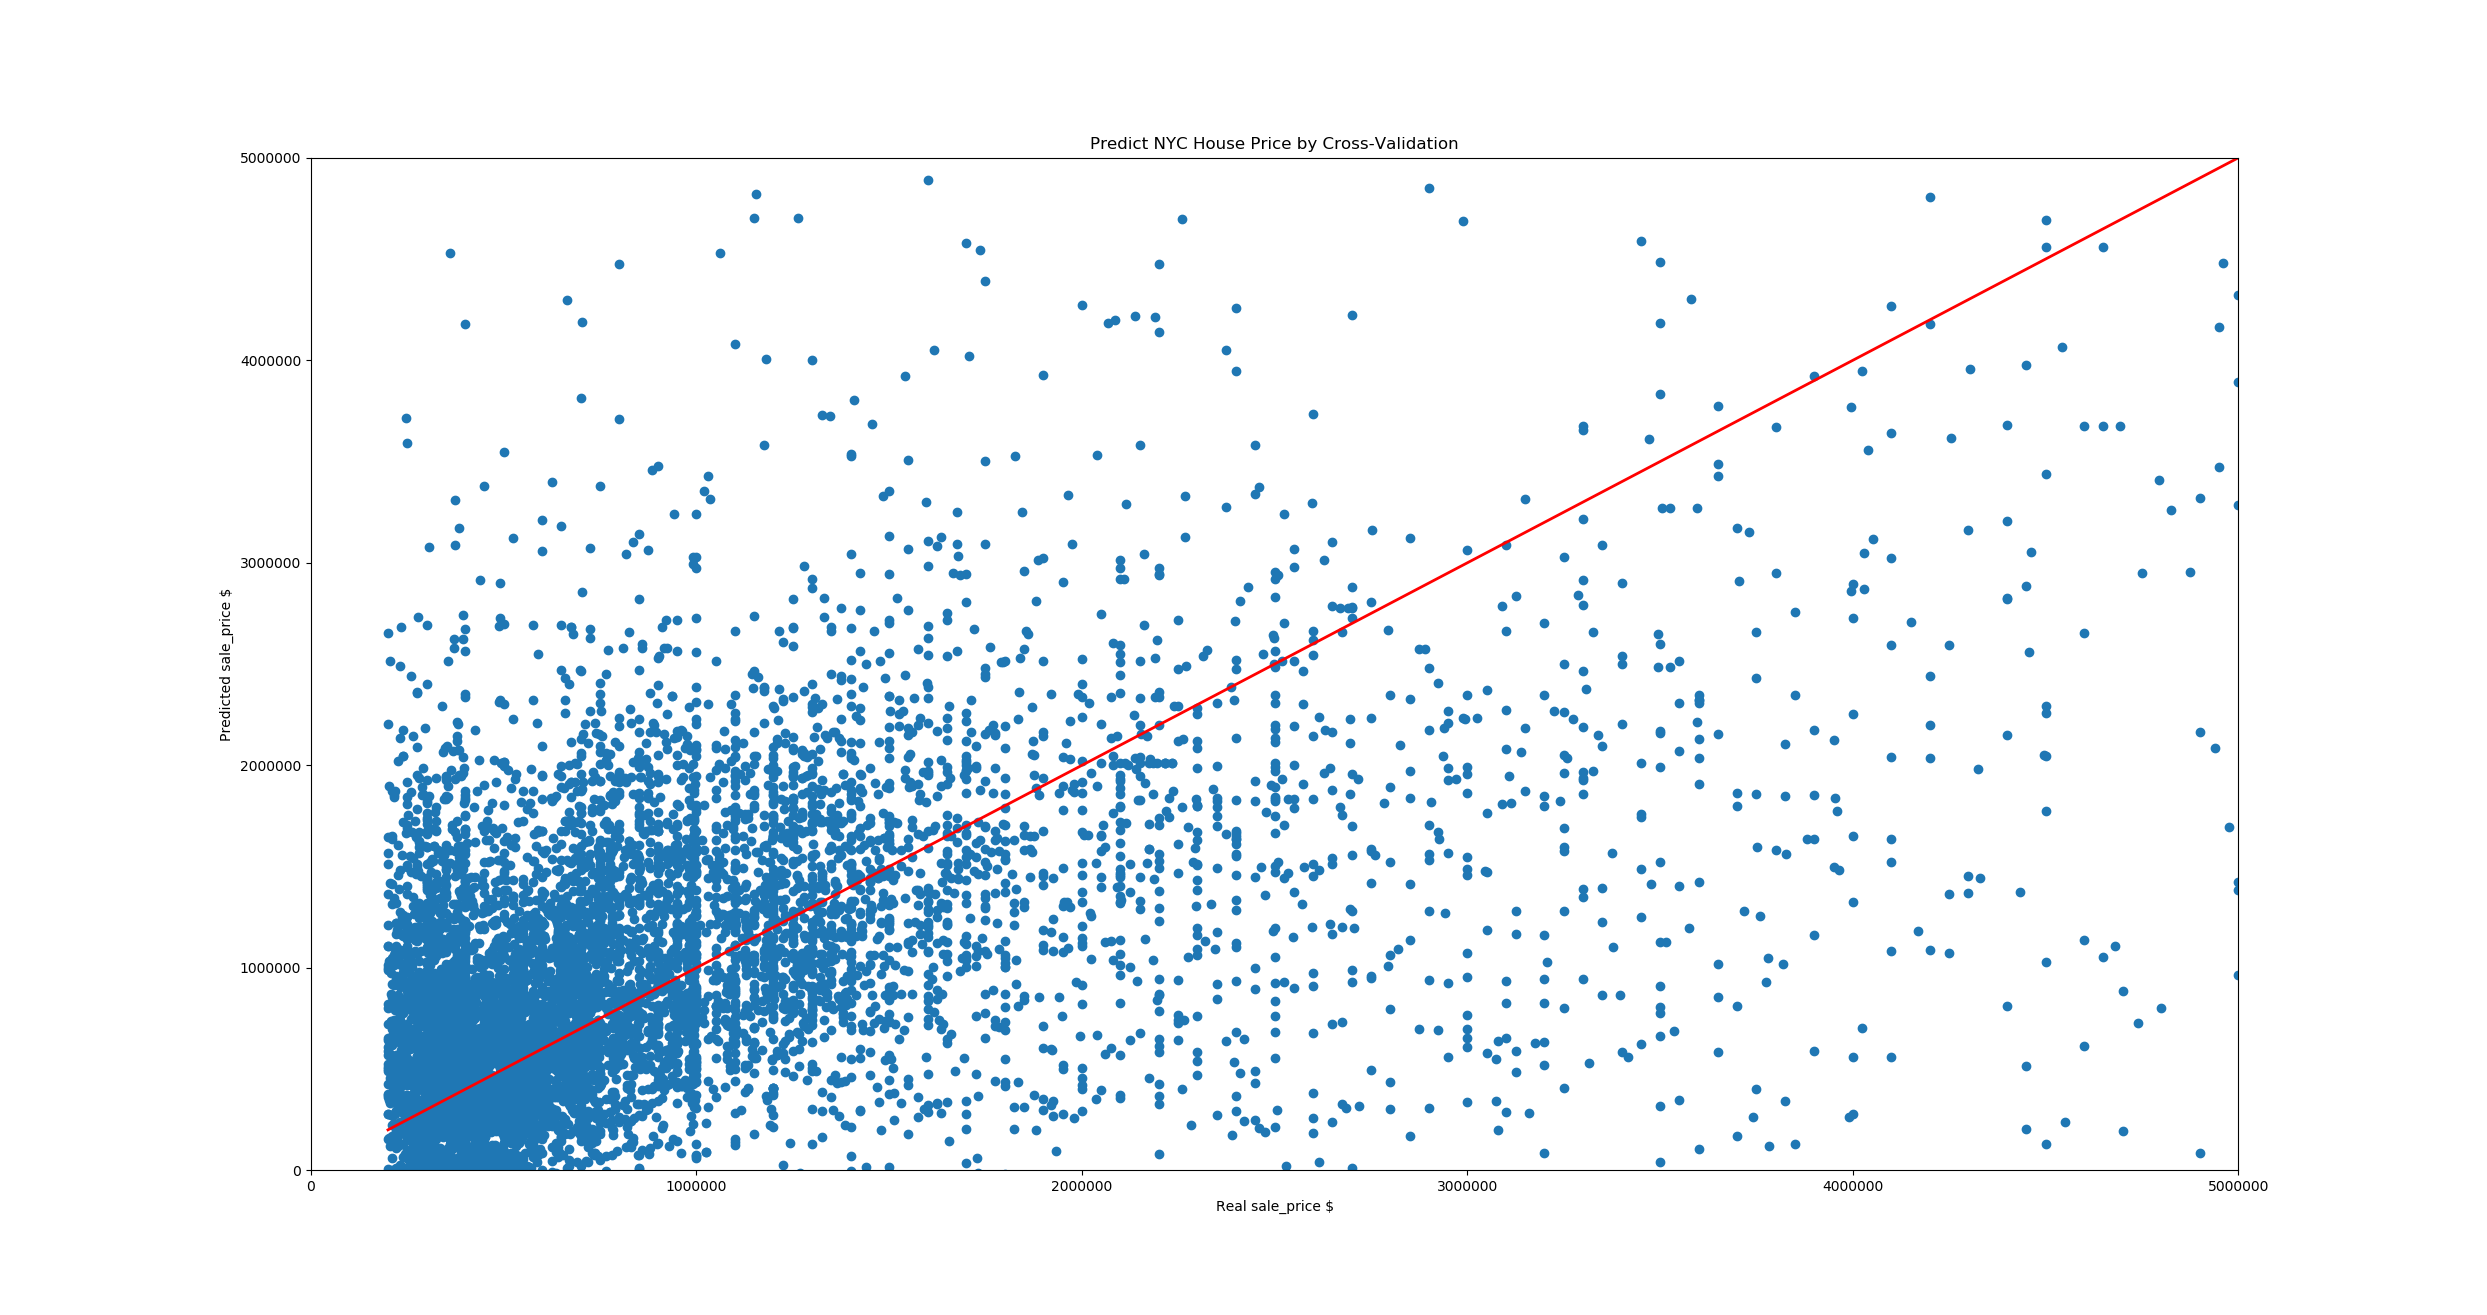
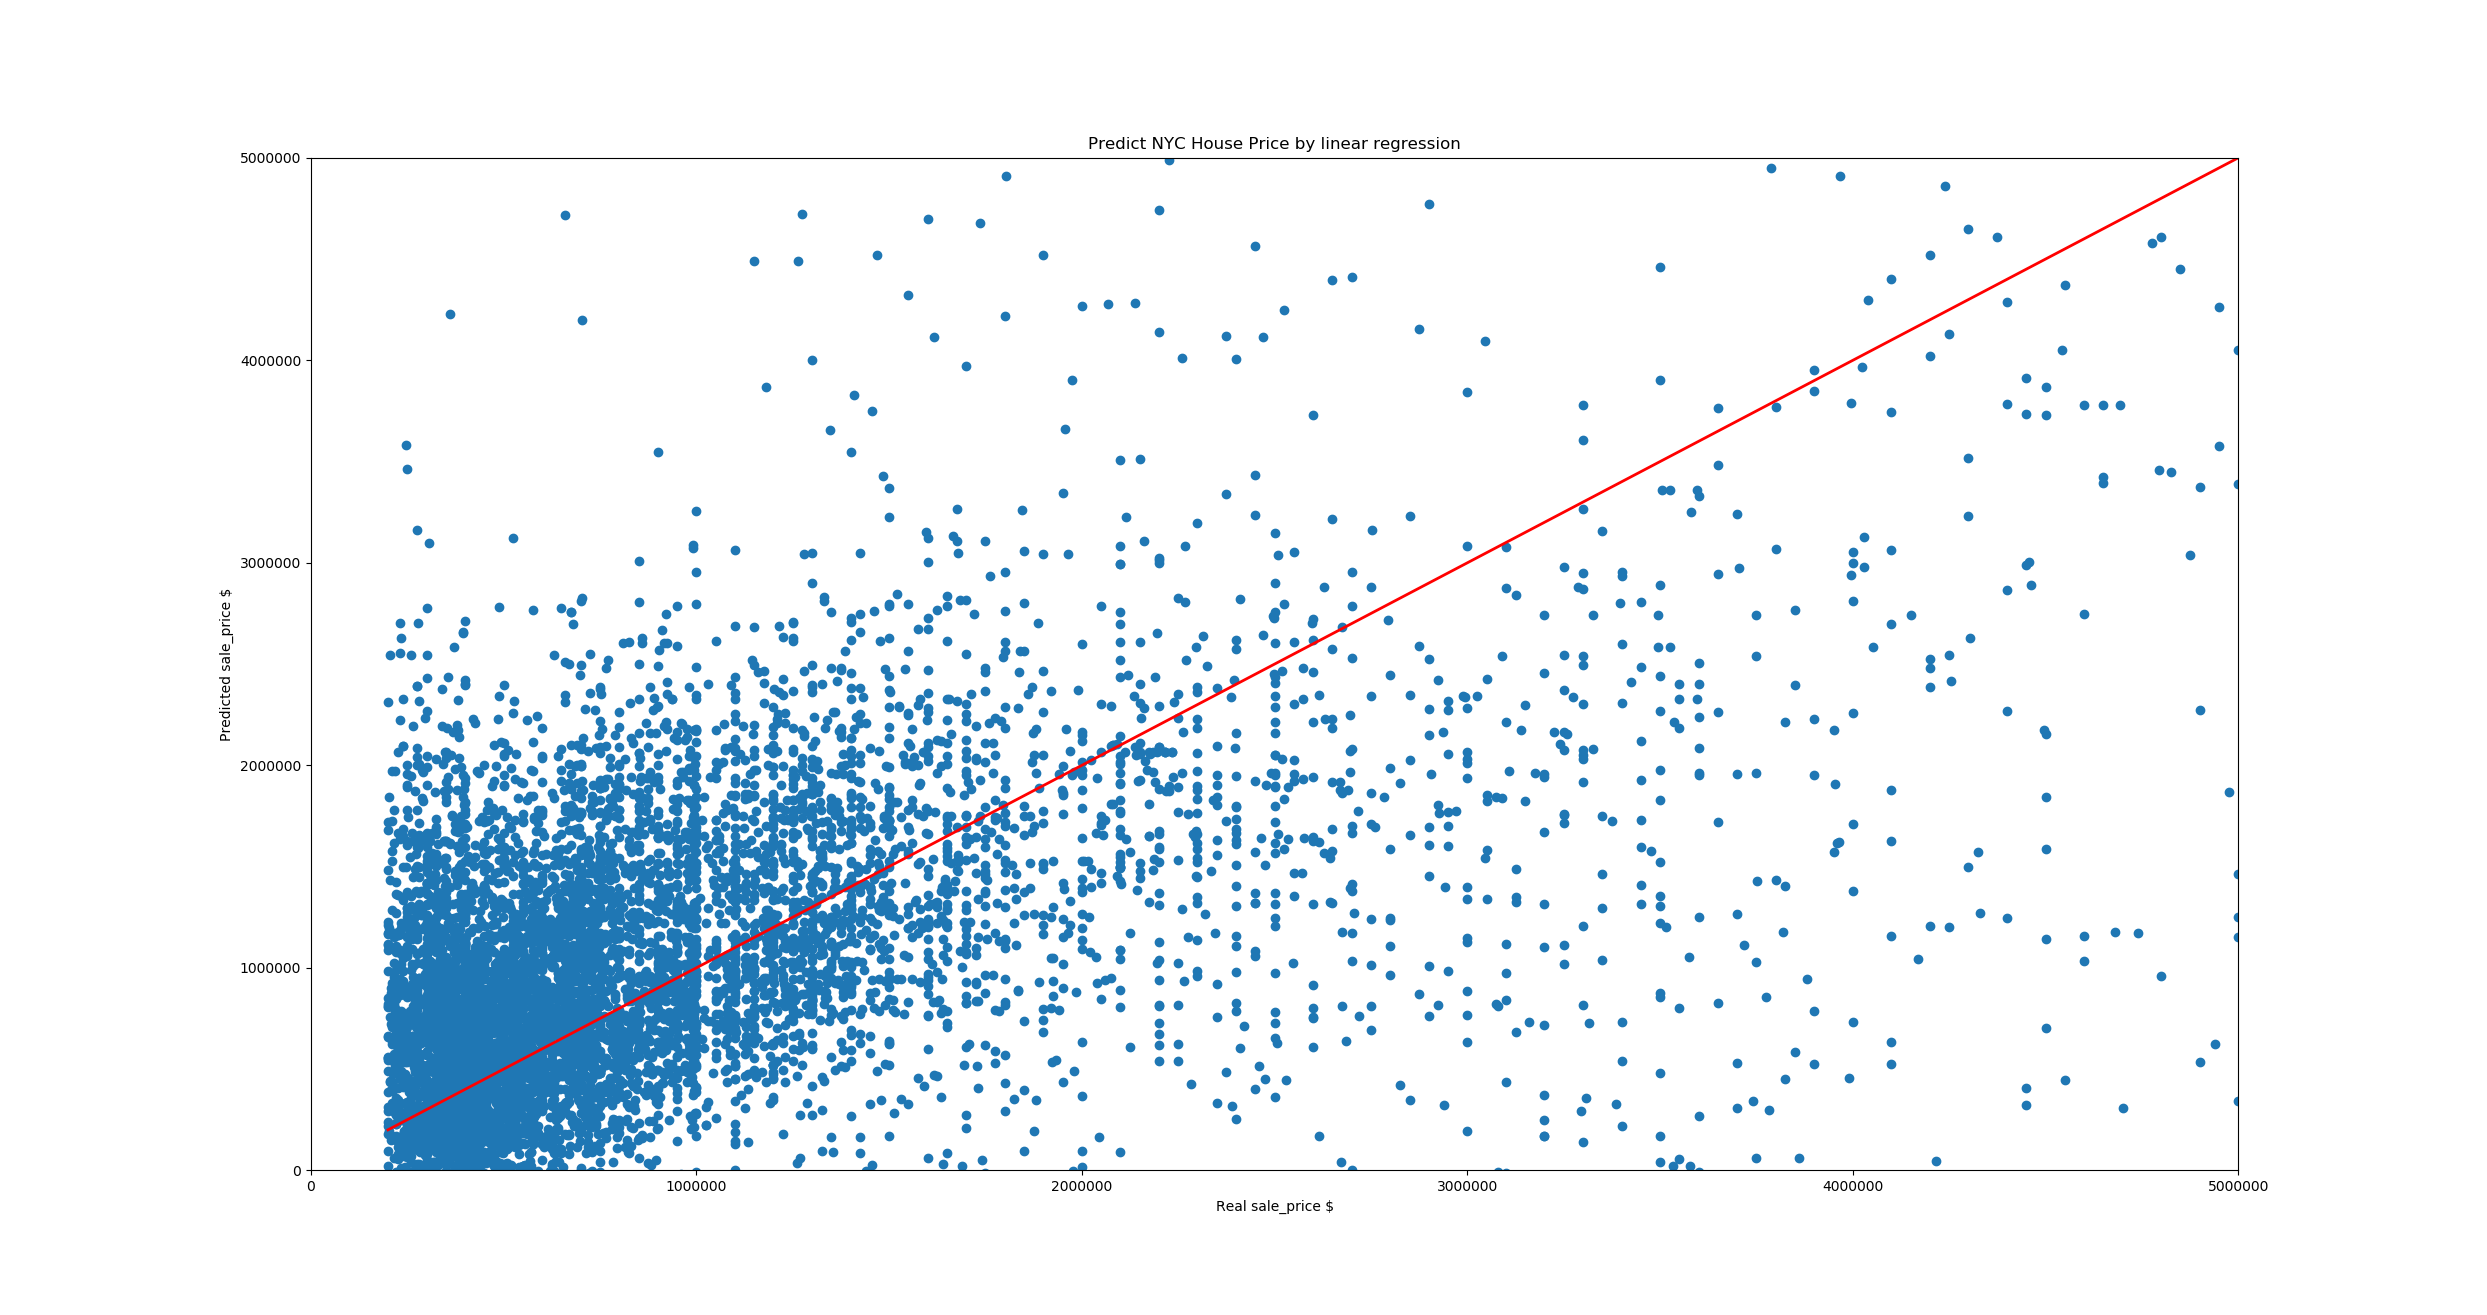
.

diff --git a/rf.py b/rf.py
@@ -1,9 +1,9 @@
+# Ensemble learning: average the outputs of many decision trees
+# For every decision tree, classify every attribute into several categories,
+# then for the same category, average the target value as output
 import numpy as np
 import csv
 from sklearn.ensemble import RandomForestRegressor
-from sklearn.model_selection import cross_val_predict
-from sklearn.model_selection import cross_val_score
-from sklearn.model_selection import GridSearchCV
 import matplotlib.pyplot as plt
 
 X = []    # features
@@ -17,30 +17,32 @@ with open('ultdata.csv') as f:
                    int(row[5]), int(row[6])])
         Y.append(int(row[7]))  
 
+# gridSearch to get the best parameter
+def myGridSearch(estimator, treeDepth):
+	maxScore = -10000
+	bestI = 0
+	bestJ = 0
+	for i in range(len(estimator)):
+		for j in range(len(treeDepth)):
+			regr = RandomForestRegressor(n_estimators=estimator[i], max_depth=treeDepth[j])
+			regr.fit(X, Y)
+			s = regr.score(X, Y)
+			if s > maxScore:
+				maxScore = s
+				bestI = estimator[i]
+				bestJ = treeDepth[j]
+	print('maxScore: ', maxScore, ' estimator: ', bestI, ' max_depth: ', bestJ) 
 
-# ensemble learning: average the outputs of many decision trees
-regr2 = RandomForestRegressor()
-param_grid = {'n_estimators': [1,2,3,4,5,10,20,40],
-              'max_depth': [2,3,4,5,6],
-              }
-gs = GridSearchCV(regr2, param_grid, cv=5) # 5 folds cross-validation
-gs.fit(X,Y)
+n_estimators = [1,2,3,4,5,10,20,30,40,50]
+max_depth = [2,3,4,5,6]
+myGridSearch(n_estimators, max_depth)           
 
-'''
-maxMean = -10000
-param = {}
-for ele in gs.grid_scores_:
-    if ele[1] > maxMean:
-        maxMean = ele[1]
-        param = ele[0]
-print(maxMean, param)
-# best parameter: {'max_depth': 3, 'n_estimators': 5}
-# R^2 varience: -0.1781369139974362
 
-'''
 # draw scatter between predicted and real with best parameter
-regr = RandomForestRegressor(max_depth=3, n_estimators=5)
-y_pred = cross_val_predict(regr, X, Y, cv=5)
+regr = RandomForestRegressor(n_estimators=3, max_depth=6)
+regr.fit(X, Y)
+print(regr.score(X, Y)) #0.868
+y_pred = regr.predict(X) 
 plt.scatter(Y, y_pred)
 y_arr = np.array(Y)
 plt.plot([y_arr.min(), y_arr.max()], [y_arr.min(), y_arr.max()], color='red', lw=2)
@@ -50,6 +52,5 @@ plt.title('Predict NYC House Price by RF')
 plt.xlim(0, 5000000)
 plt.ylim(0, 5000000)
 plt.show()
-
 
 

diff --git a/ann.py b/ann.py
@@ -6,11 +6,6 @@ from sklearn.model_selection import GridSearchCV
 from sklearn.model_selection import train_test_split
 import matplotlib.pyplot as plt
 
-def scoreOneLayer(n):
-	regr = MLPRegressor(hidden_layer_sizes=(n))
-	regr.fit(X, Y)
-	return regr.score(x_test, y_test)
-
 X = []    # features
 Y = []    # sale_price
 with open('ultdata.csv') as f:
@@ -24,8 +19,18 @@ with open('ultdata.csv') as f:
 
 x_train, x_test, y_train, y_test = train_test_split(X, Y, test_size=0.2)
 
+def scoreOneLayer(n):
+	regr = MLPRegressor(hidden_layer_sizes=(n))
+	regr.fit(X, Y)
+	return regr.score(x_test, y_test)
 
-'''        
+def scoreTwoLayer(n):
+	regr = MLPRegressor(hidden_layer_sizes=(n, n//3))
+	regr.fit(X, Y)
+	return regr.score(X, Y)
+
+   
+# grid_search finds best parameter     
 regr = MLPRegressor(hidden_layer_sizes=(50))
 param_grid = {'activation': ['logistic', 'tanh', 'relu'],
               'solver': ['sgd', 'adam'],
@@ -42,17 +47,31 @@ for ele in gs.grid_scores_:
 print(maxMean, param)
 # best parameter {'activation': 'relu', 'solver': 'adam'}, the same as default 
 # R^2 covirance: 0.14600261914616436
-'''
 
+
+# draw the diagram: score vs hidden units
 units = np.arange(20,150,5)
 score = []
 for i in units:
 	score.append(scoreOneLayer(i))
 
 plt.plot(units, score, marker='o')
-plt.xlabel('n hidden units')
+plt.xlabel('number of hidden units')
 plt.ylabel('R^2 variance')
 plt.title('One hidden layer ANN')
 plt.grid(True)
 plt.show()
 
+
+bestRegr = MLPRegressor()  # which is also default 
+bestRegr.fit(X, Y)
+y_pred = bestRegr.predict(X)
+plt.scatter(Y, y_pred)
+y_arr = np.array(Y)
+plt.plot([y_arr.min(), y_arr.max()], [y_arr.min(), y_arr.max()], color='red', lw=2)
+plt.xlabel('Real sale_price $')
+plt.ylabel('Predicted sale_price $')
+plt.title('Predict NYC House Price by MLP')
+plt.xlim(0, 5000000)
+plt.ylim(0, 5000000)
+plt.show()

diff --git a/linear.py b/linear.py
@@ -19,29 +19,18 @@ with open('ultdata.csv') as f:
 
 
 regr = linear_model.LinearRegression()
-
-'''
-# n-folds cross-validation
-n_fold = np.arange(5, 100)
-score = [] 
-for i in n_fold:
-	 score.append(cross_val_score(regr, X, Y, cv=i).mean())
-plt.plot(n_fold, score)
-plt.xlabel('n-folds') 
-plt.ylabel('Variance score')
-plt.grid(True)
-plt.show()
-'''
+regr.fit(X, Y)
+print(regr.score(X, Y))  # 0.6714874629993289
 
 
-# draw scatter between predicted and real with best n-folds
-y_pred = cross_val_predict(regr, X, Y, cv=5)
+# draw scatter between predicted and real 
+y_pred = regr.predict(X)
 plt.scatter(Y, y_pred)
 y_arr = np.array(Y)
 plt.plot([y_arr.min(), y_arr.max()], [y_arr.min(), y_arr.max()], color='red', lw=2)
 plt.xlabel('Real sale_price $')
 plt.ylabel('Predicted sale_price $')
-plt.title('Predict NYC House Price by Cross-Validation')
+plt.title('Predict NYC House Price by linear regression')
 plt.xlim(0, 5000000)
 plt.ylim(0, 5000000)
 plt.show()
